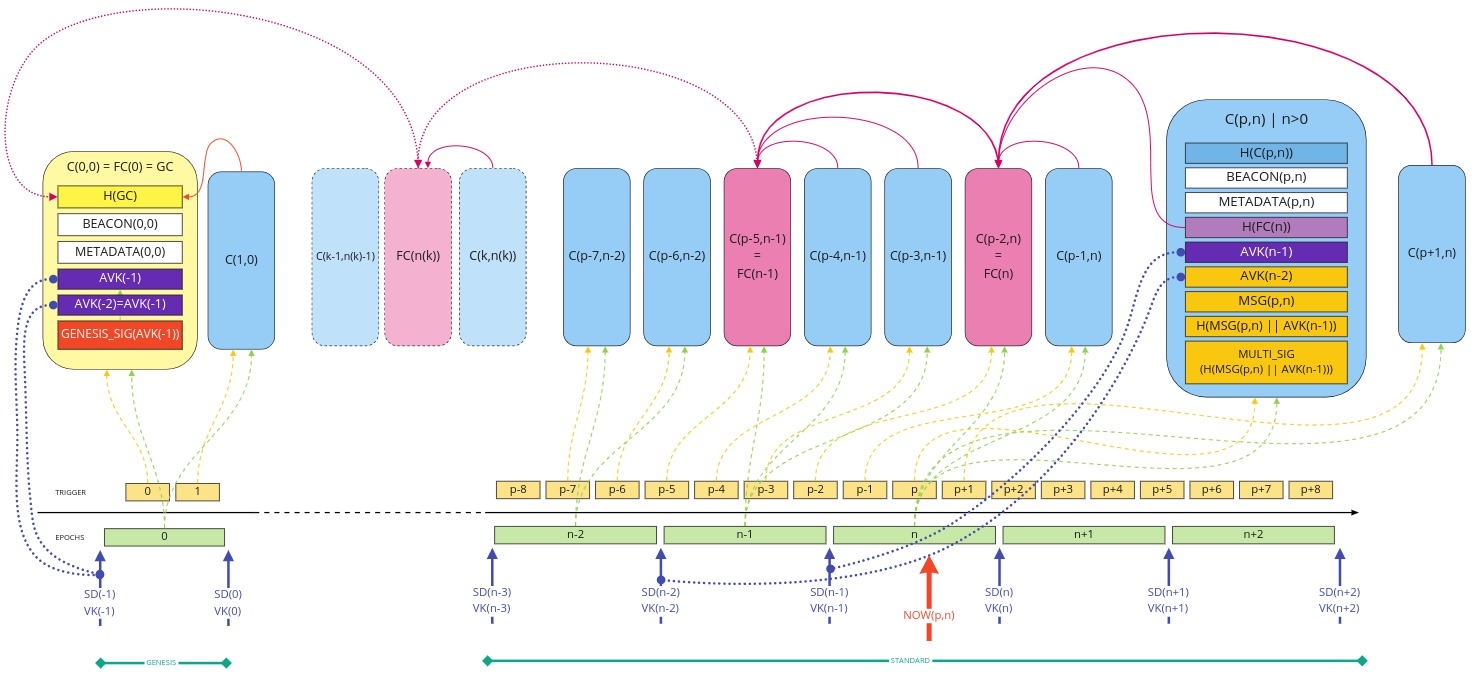
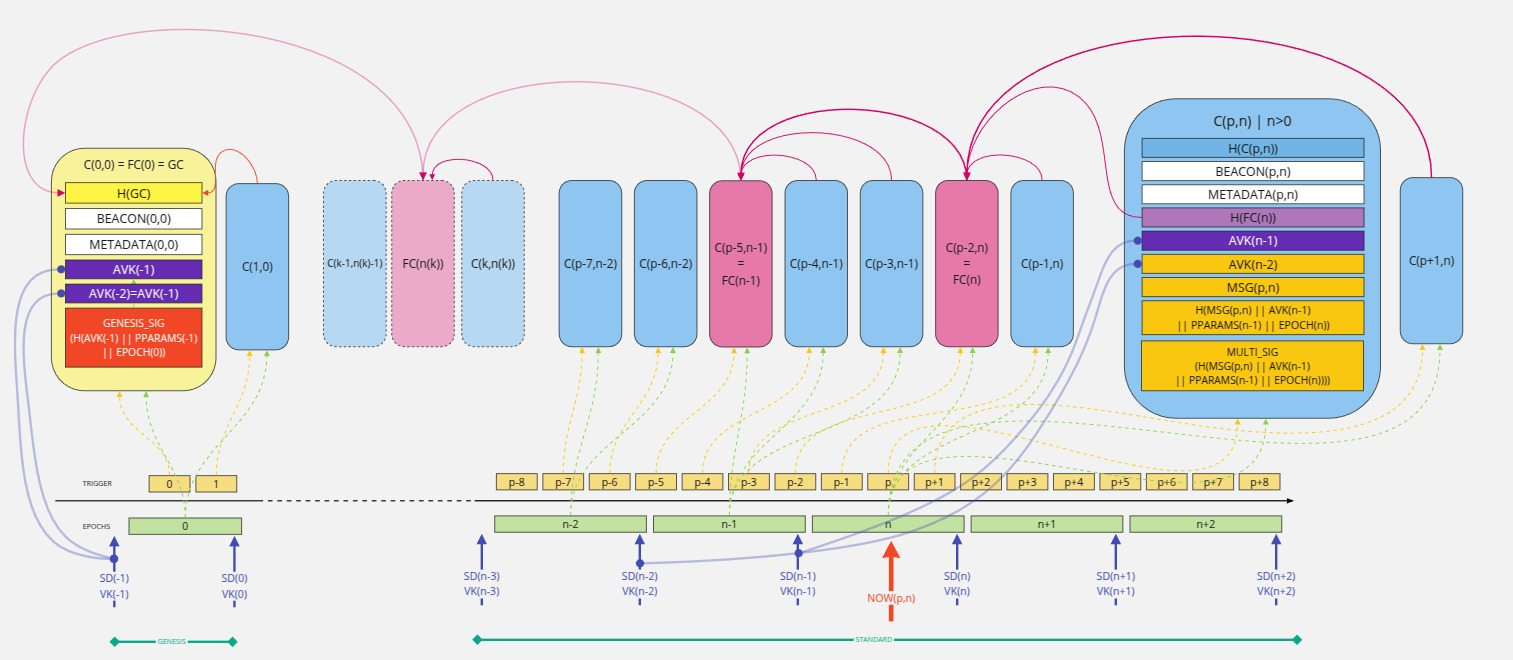
docs: update certificate chain design page

diff --git a/docs/website/root/mithril/advanced/mithril-protocol/certificates.md b/docs/website/root/mithril/advanced/mithril-protocol/certificates.md
@@ -37,7 +37,9 @@ Where the following notations have been used:
 - `VK(n)`: Verification key at epoch `n`
 - `AVK(n)`: Aggregrate verification key at epoch `n` such as `AVK(n) = MKT_ROOT(SD(n) || VK(n))`
 - `MKT_ROOT()`: Merkle-tree root
-- `BEACON(p,n)`: Beacon at trigger `p` and epoch `n`
+- `PPARAMS(n)`: Protocol parameters at epoch `n`
+- `EPOCH(n)`: Epoch `n`
+- `BEACON(p,n)`: Beacon at trigger `p` and epoch `n` (includes `EPOCH(n)`)
 - `METADATA(p,n)`: Metadata of the certificate at trigger `p` and epoch `n`
 - `MSG(p,n)`: Message of the certificate at trigger `p` and epoch `n`
 - `MULTI_SIG(p,n)`: Multi-signature created to the message `H(MSG(p,n) || AVK(n-1))`
@@ -92,18 +94,23 @@ An implementation of the algorithm would work as follows for a certificate:
 - **Step 2**: Verify (or fail) that the `current_hash` of the `current_certificate` is valid by computing it and comparing it with the `hash` field of the certificate
 - **Step 3**: Get the `previous_hash` of the `previous_certificate` by reading its value in the `current_certificate`
 - **Step 4**: Verify (or fail) that the `multi_signature` of the `current_certificate` is valid
-- **Step 5**: Retrieve the `previous_certificate` that has the hash `previous_hash`:
-  - **Step 5.1**: If it is not a `genesis_certificate`:
-    - **Step 5.1.1**: Verify (or fail) that the `previous_hash` of the `previous_certificate` is valid by computing it and comparing it with the `hash` field of the certificate:
-    - **Step 5.1.2**: Verify the `current_avk`:
-      - **Step 5.1.2.1**: If the `current_certificate` is the `first_certificate` of the epoch, verify (or fail) that the `current_avk` of the `current_certificate` is part of the message signed by the multi-signature of the `previous_certificate`
-      - **Step 5.1.2.2**: Else verify (or fail) that the `current_avk` of the `current_certificate` is the same as the `current_avk` of the `previous_certificate`
-    - **Step 5.1.3**: Verify (or fail) that the `multi_signature` of the `previous_certificate` is valid
-    - **Step 5.1.4**: Use the `previous_certificate` as `current_certificate` and start again at **Step 2**
-  - **Step 5.2**: If it is a `genesis_certificate`:
-    - **Step 5.2.1**: Verify (or fail) that the `previous_hash` of the `previous_certificate` is valid by computing it and comparing it with the `hash` field of the certificate
-    - **Step 5.2.2**: Verify (or fail) that the `current_avk` of the `current_certificate` is part of the message signed by the genesis signature of the `previous_certificate`
-    - **Step 5.2.3**: The certificate is valid (success).
+- **Step 5**: Verify (or fail) that the `current_epoch` of the `current_certificate` is part of the message signed by the multi-signature of the `current_certificate`
+- **Step 6**: Retrieve the `previous_certificate` that has the hash `previous_hash`:
+  - **Step 6.1**: If it is not a `genesis_certificate`:
+    - **Step 6.1.1**: Verify (or fail) that the `previous_hash` of the `previous_certificate` is valid by computing it and comparing it with the `hash` field of the certificate:
+    - **Step 6.1.2**: Verify the `current_avk`:
+      - **Step 6.1.2.1**: If the `current_certificate` is the `first_certificate` of the epoch
+        - **Step 6.1.2.1.1**: Verify (or fail) that the `current_avk` of the `current_certificate` is part of the message signed by the multi-signature of the `previous_certificate`
+        - **Step 6.1.2.1.2**: Verify (or fail) that the `current_protocol_parameters` of the `current_certificate` is part of the message signed by the multi-signature of the `previous_certificate`
+      - **Step 6.1.2.2**: Else verify (or fail) that the `current_avk` of the `current_certificate` is the same as the `current_avk` of the `previous_certificate`
+    - **Step 6.1.3**: Verify (or fail) that the `multi_signature` of the `previous_certificate` is valid
+    - **Step 6.1.4**: Use the `previous_certificate` as `current_certificate` and start again at **Step 2**
+  - **Step 6.2**: If it is a `genesis_certificate`:
+    - **Step 6.2.1**: Verify (or fail) that the `previous_hash` of the `previous_certificate` is valid by computing it and comparing it with the `hash` field of the certificate
+    - **Step 6.2.2**: Verify (or fail) that the `current_epoch` of the `previous_certificate` is part of the message signed by the genesis_certificate of the `previous_certificate`
+    - **Step 6.2.3**: Verify (or fail) that the `current_avk` of the `current_certificate` is part of the message signed by the genesis signature of the `previous_certificate`
+    - **Step 6.2.4**: Verify (or fail) that the `current_protocol_parameters` of the `current_certificate` is part of the message signed by the genesis signature of the `previous_certificate`
+    - **Step 6.2.5**: The certificate is valid (success).
 
 ## The coexistence of multiple certificate chains
 
